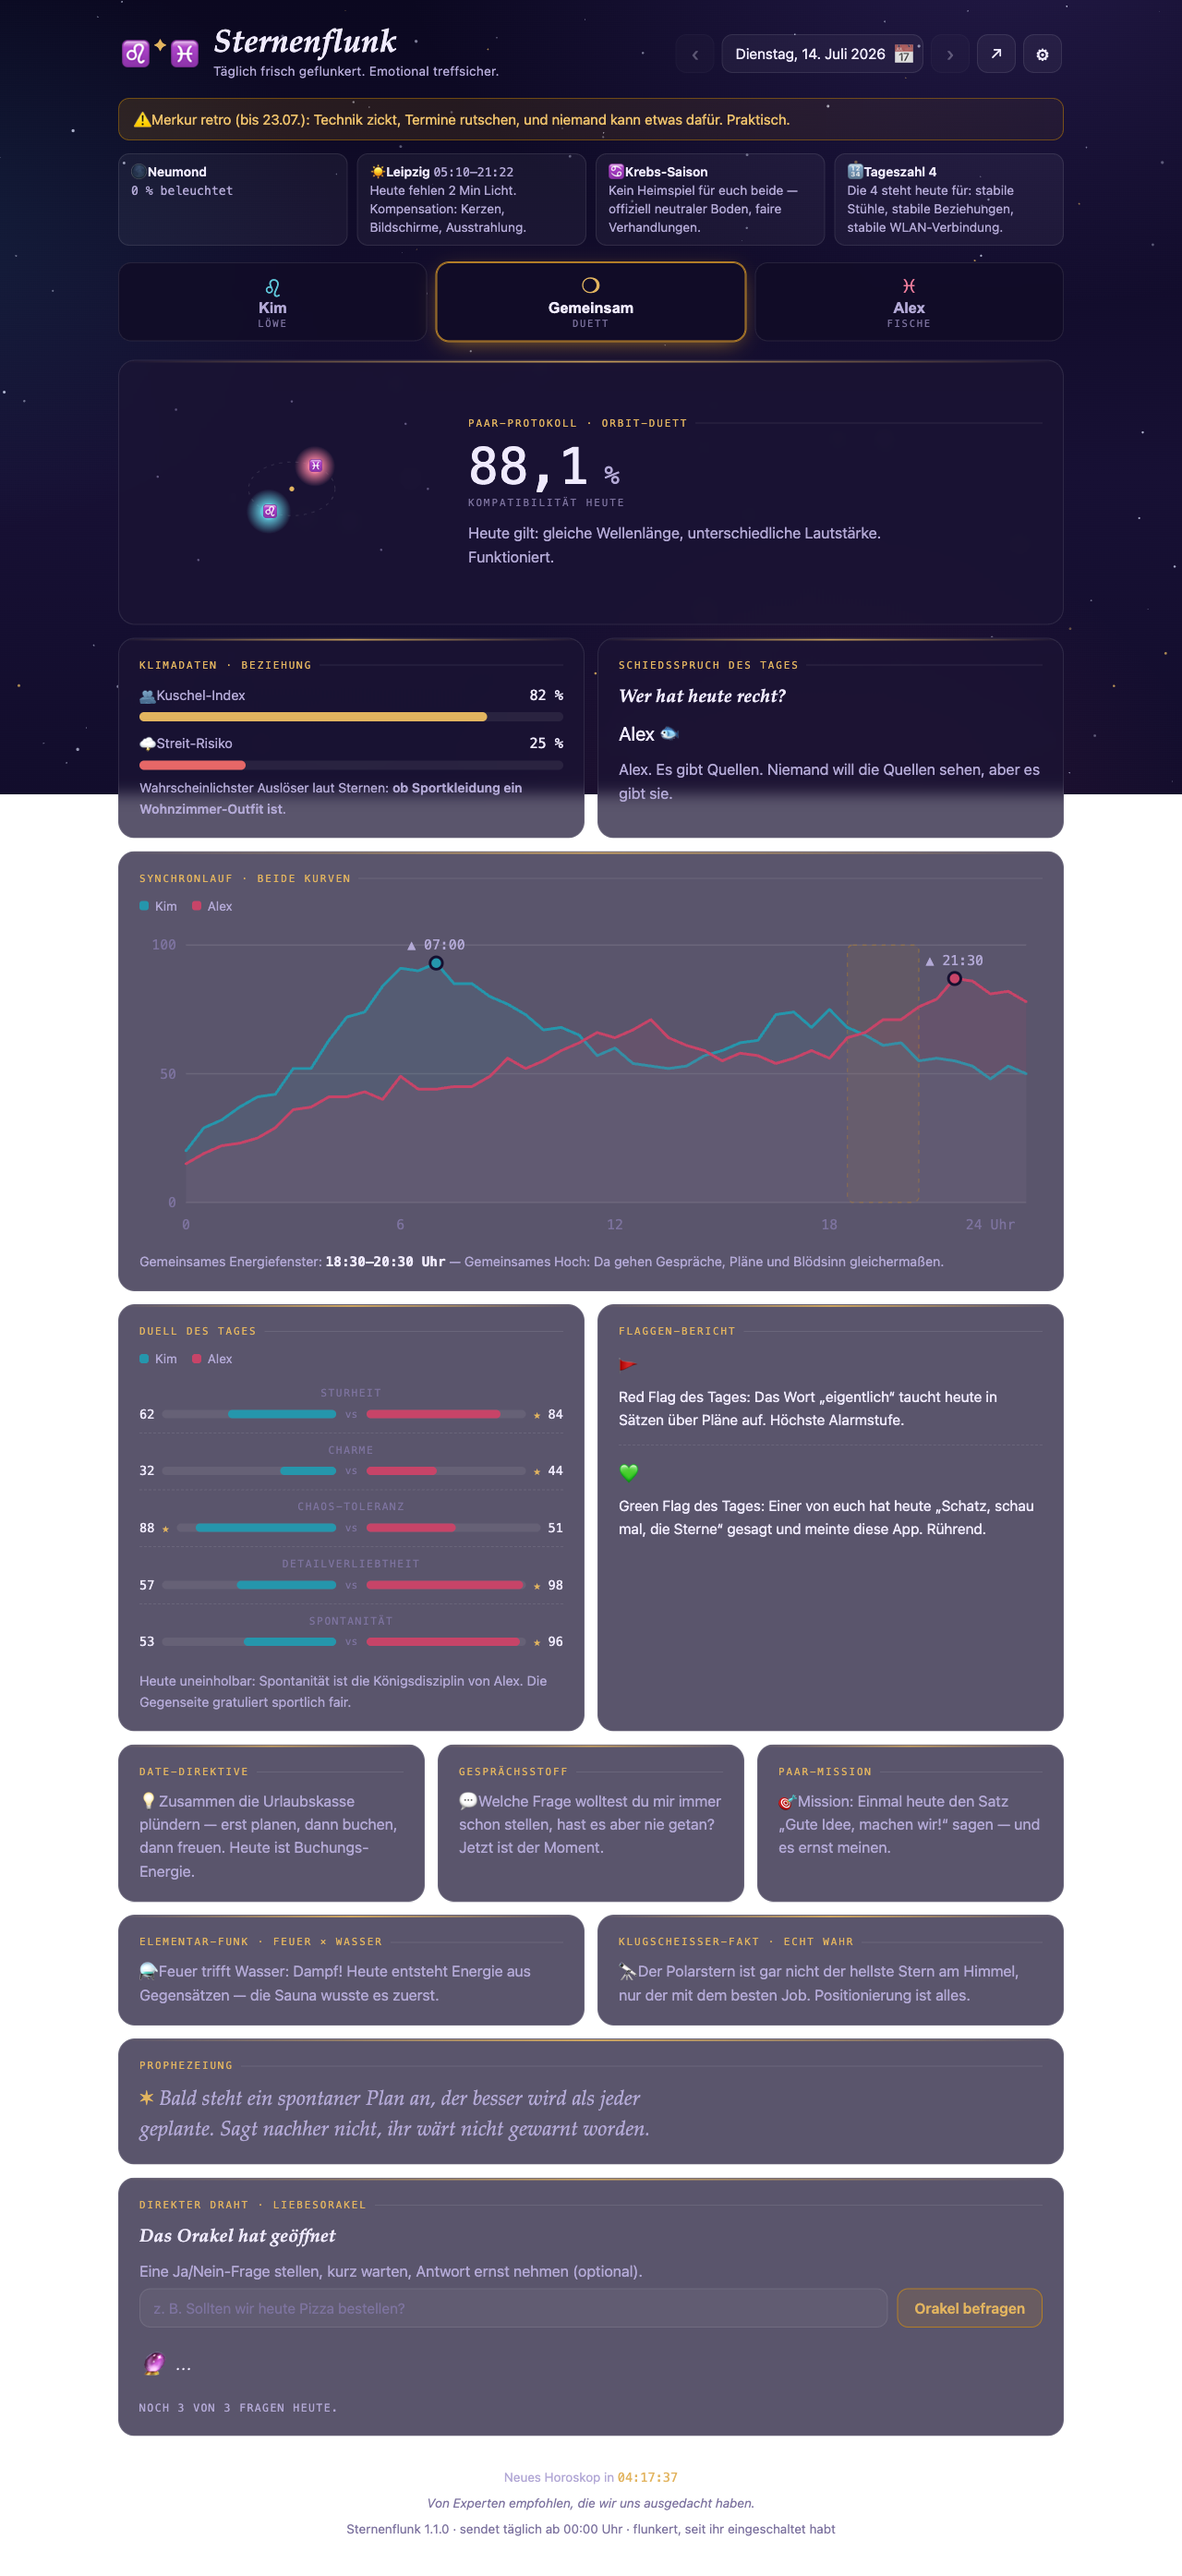
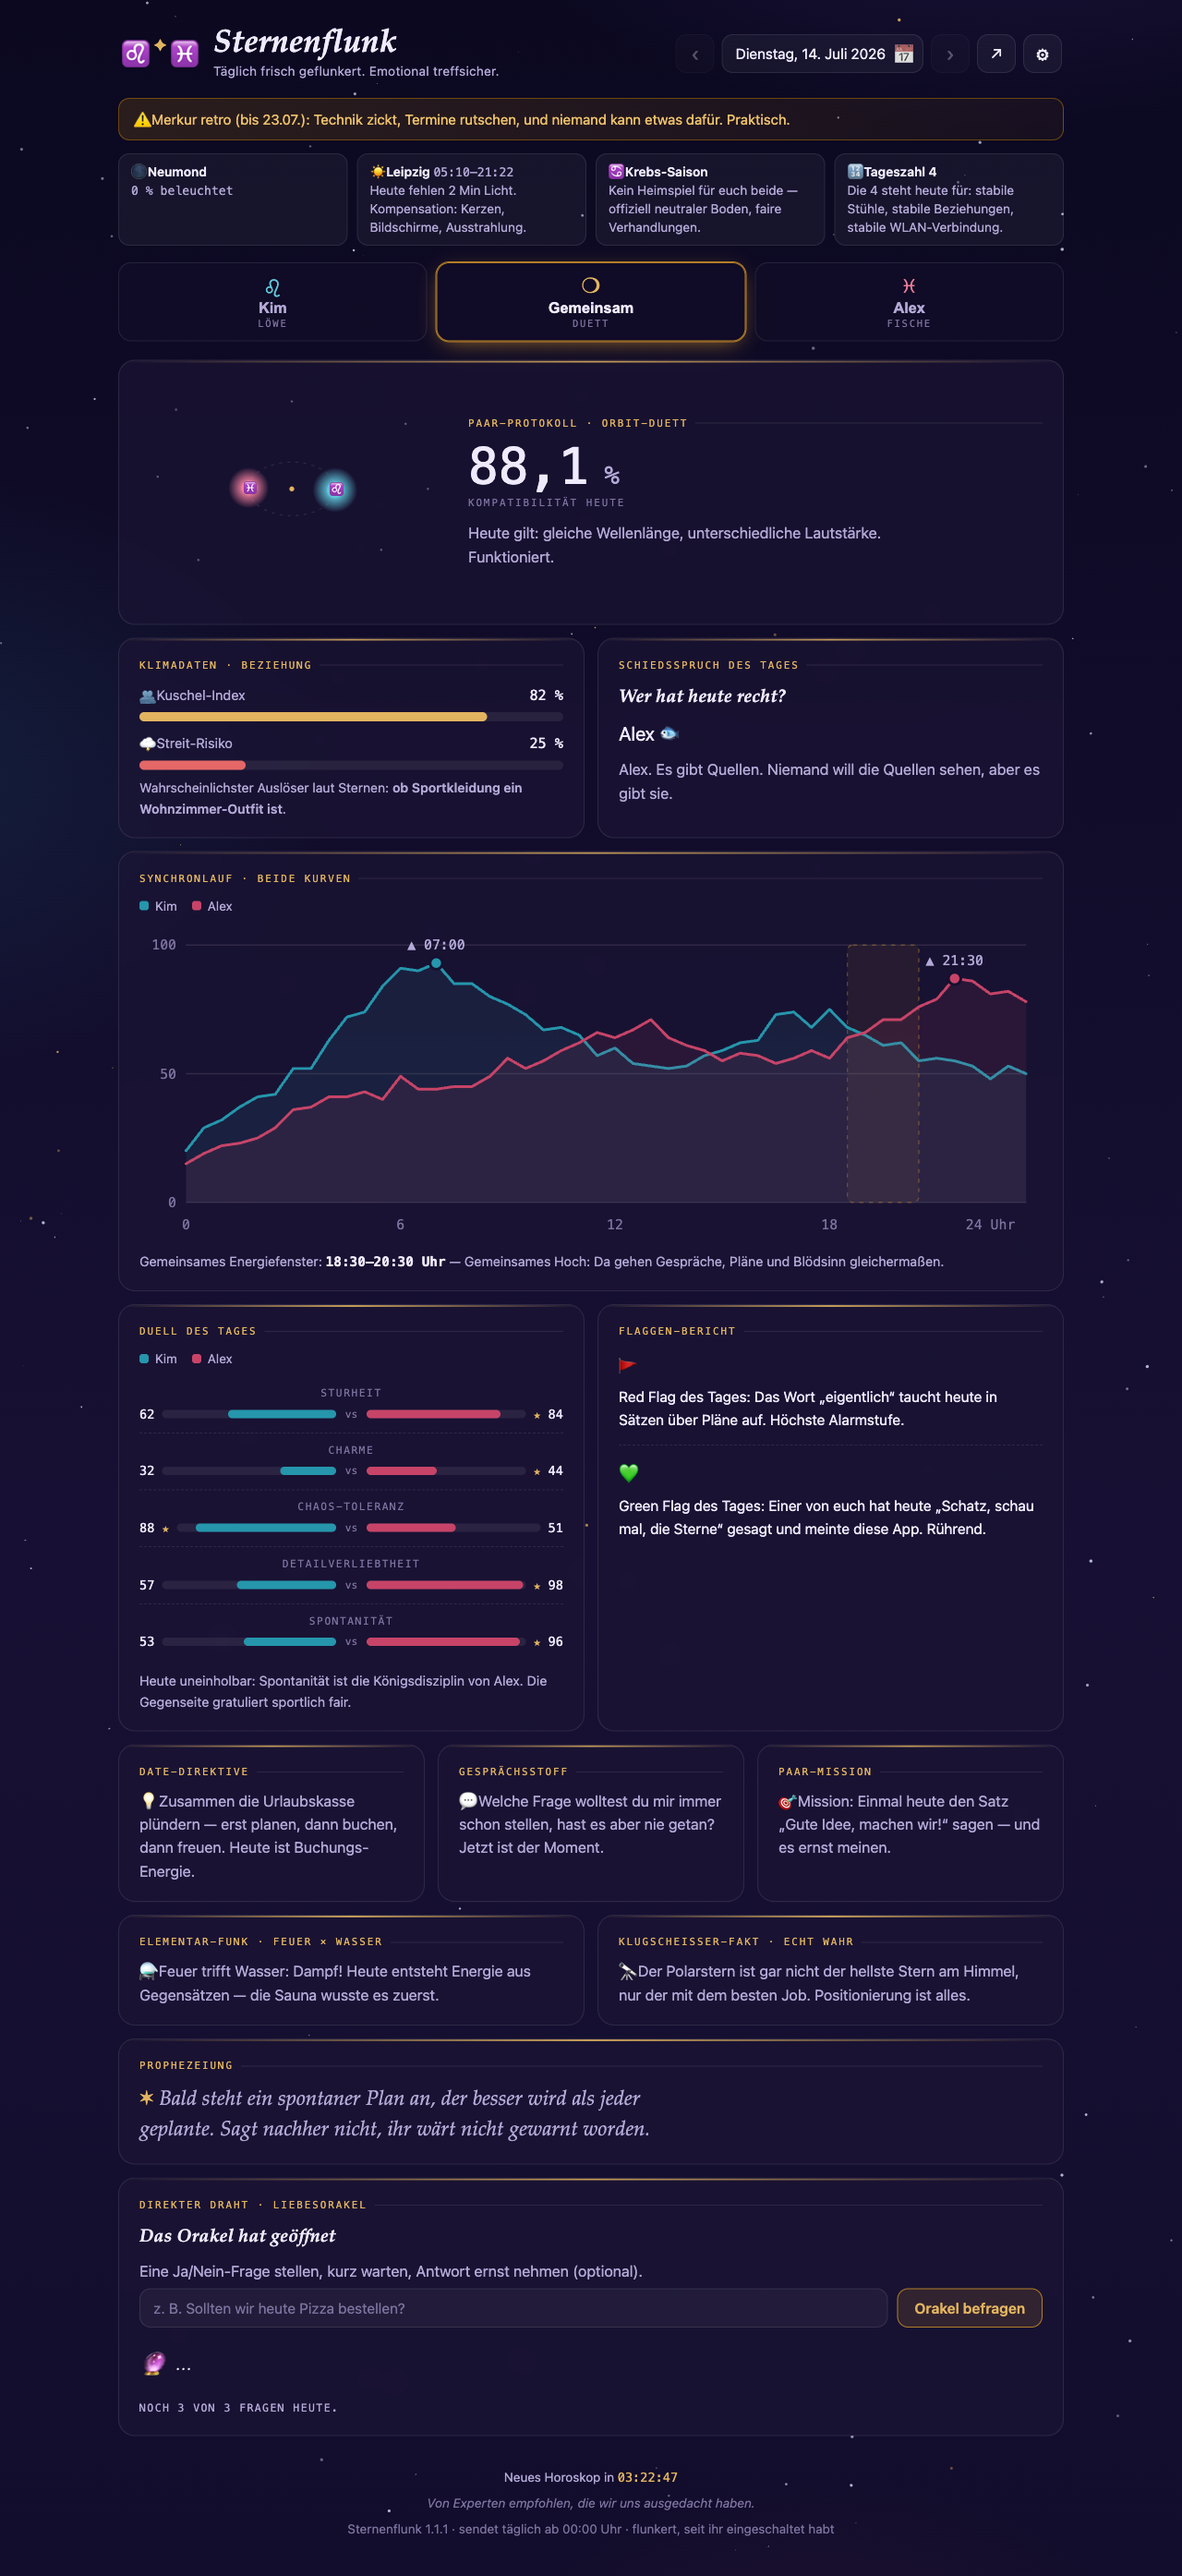
1.1.1: Screenshots mit durchgehendem Sternenhimmel neu aufgenommen
paar.png und person.png waren Full-Page-Aufnahmen, bei denen der
background-attachment:fixed-Verlauf nur im ersten Viewport gerendert
wurde — darunter brach der Himmel hart ab. Neuaufnahme mit Viewport in
voller Inhaltshöhe (1280x2789 bzw. 1280x2014), identische Tagesinhalte
dank Determinismus (Kim/Löwe + Alex/Fische, 14.07.2026). Kein Code
geändert; Version-Bump auf 1.1.1 in config.php, VERSION, index.html
(?v=) und CHANGELOG.

diff --git a/index.html b/index.html
@@ -10,7 +10,7 @@
   <meta name="apple-mobile-web-app-status-bar-style" content="black-translucent">
   <link rel="icon" href="favicon.svg" type="image/svg+xml">
   <link rel="manifest" href="manifest.webmanifest">
-  <link rel="stylesheet" href="assets/css/styles.css?v=1.1.0">
+  <link rel="stylesheet" href="assets/css/styles.css?v=1.1.1">
 </head>
 <body>
   <canvas id="starfield" aria-hidden="true"></canvas>
@@ -109,8 +109,8 @@
   <div id="toast" class="toast" role="status" hidden></div>
   <canvas id="confetti" aria-hidden="true"></canvas>
 
-  <script src="assets/js/charts.js?v=1.1.0"></script>
-  <script src="assets/js/widgets.js?v=1.1.0"></script>
-  <script src="assets/js/app.js?v=1.1.0"></script>
+  <script src="assets/js/charts.js?v=1.1.1"></script>
+  <script src="assets/js/widgets.js?v=1.1.1"></script>
+  <script src="assets/js/app.js?v=1.1.1"></script>
 </body>
 </html>

diff --git a/config.php b/config.php
@@ -7,7 +7,7 @@ declare(strict_types=1);
  */
 
 const APP_NAME    = 'Sternenflunk';
-const APP_VERSION = '1.1.0';
+const APP_VERSION = '1.1.1';
 
 // Zeitzone für "heute" und alle Tagesgrenzen.
 const APP_TIMEZONE = 'Europe/Berlin';

diff --git a/CHANGELOG.md b/CHANGELOG.md
@@ -1,5 +1,15 @@
 # Changelog
 
+## 1.1.1 — 2026-07-14
+
+Kosmetik fürs Schaufenster.
+
+- **Screenshots repariert:** `paar.png` und `person.png` neu aufgenommen —
+  der Sternenhimmel läuft jetzt durchgehend über die volle Seitenhöhe.
+  (Die alten Full-Page-Aufnahmen hatten den `background-attachment: fixed`-
+  Verlauf nur im ersten Viewport gerendert; Neuaufnahme mit Viewport in
+  voller Inhaltshöhe, kein Code geändert.)
+
 ## 1.1.0 — 2026-07-14
 
 Der Flunk bekommt eine Haustür.
